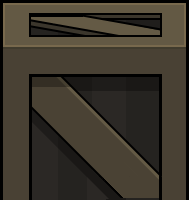
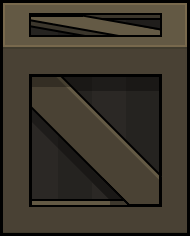
Minor cosmetic fixes to the create camp ui

diff --git a/source/stonehearth_data/mods/stonehearth/ui/game/create_camp/create_camp.less b/source/stonehearth_data/mods/stonehearth/ui/game/create_camp/create_camp.less
@@ -114,10 +114,10 @@
    #crate {
       .controlFont;
       position: absolute;
-      bottom: -20px;
+      bottom: -40px;
       right: 0px;
-      width: 189px;
-      height: 178px;
+      width: 190px;
+      height: 236px;
       text-align: center;
       background: url(./images/crate.png);
    

diff --git a/source/stonehearth_data/mods/stonehearth/ui/game/create_camp/create_camp.js b/source/stonehearth_data/mods/stonehearth/ui/game/create_camp/create_camp.js
@@ -103,7 +103,7 @@ App.StonehearthCreateCampView = App.View.extend({
 
    _hideCrate: function() {
       this._cratePlaced = true
-      $('#crate').animate({ 'bottom' : -200 }, 100);
+      $('#crate').animate({ 'bottom' : -240 }, 150);
       $("#crateCoverLink").hide();
    },
 
